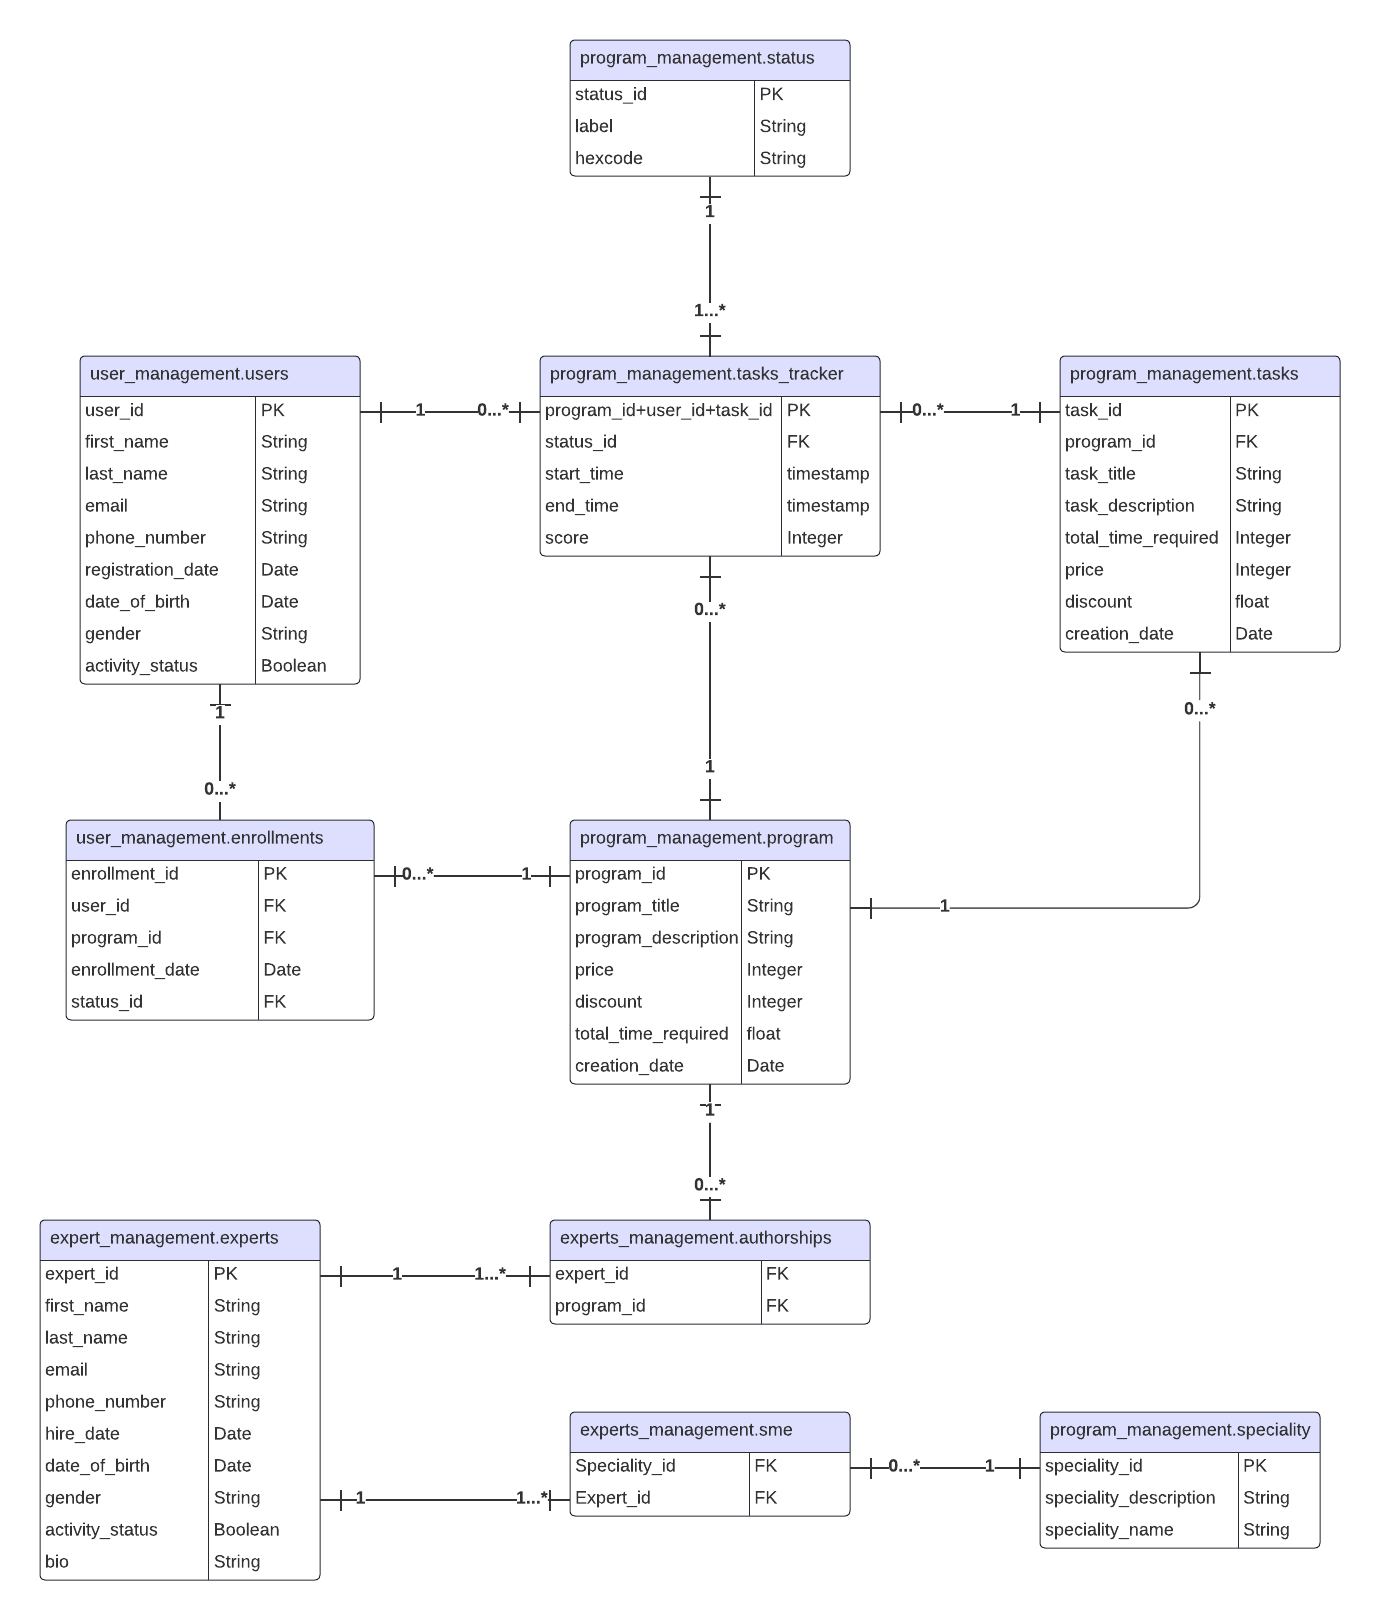
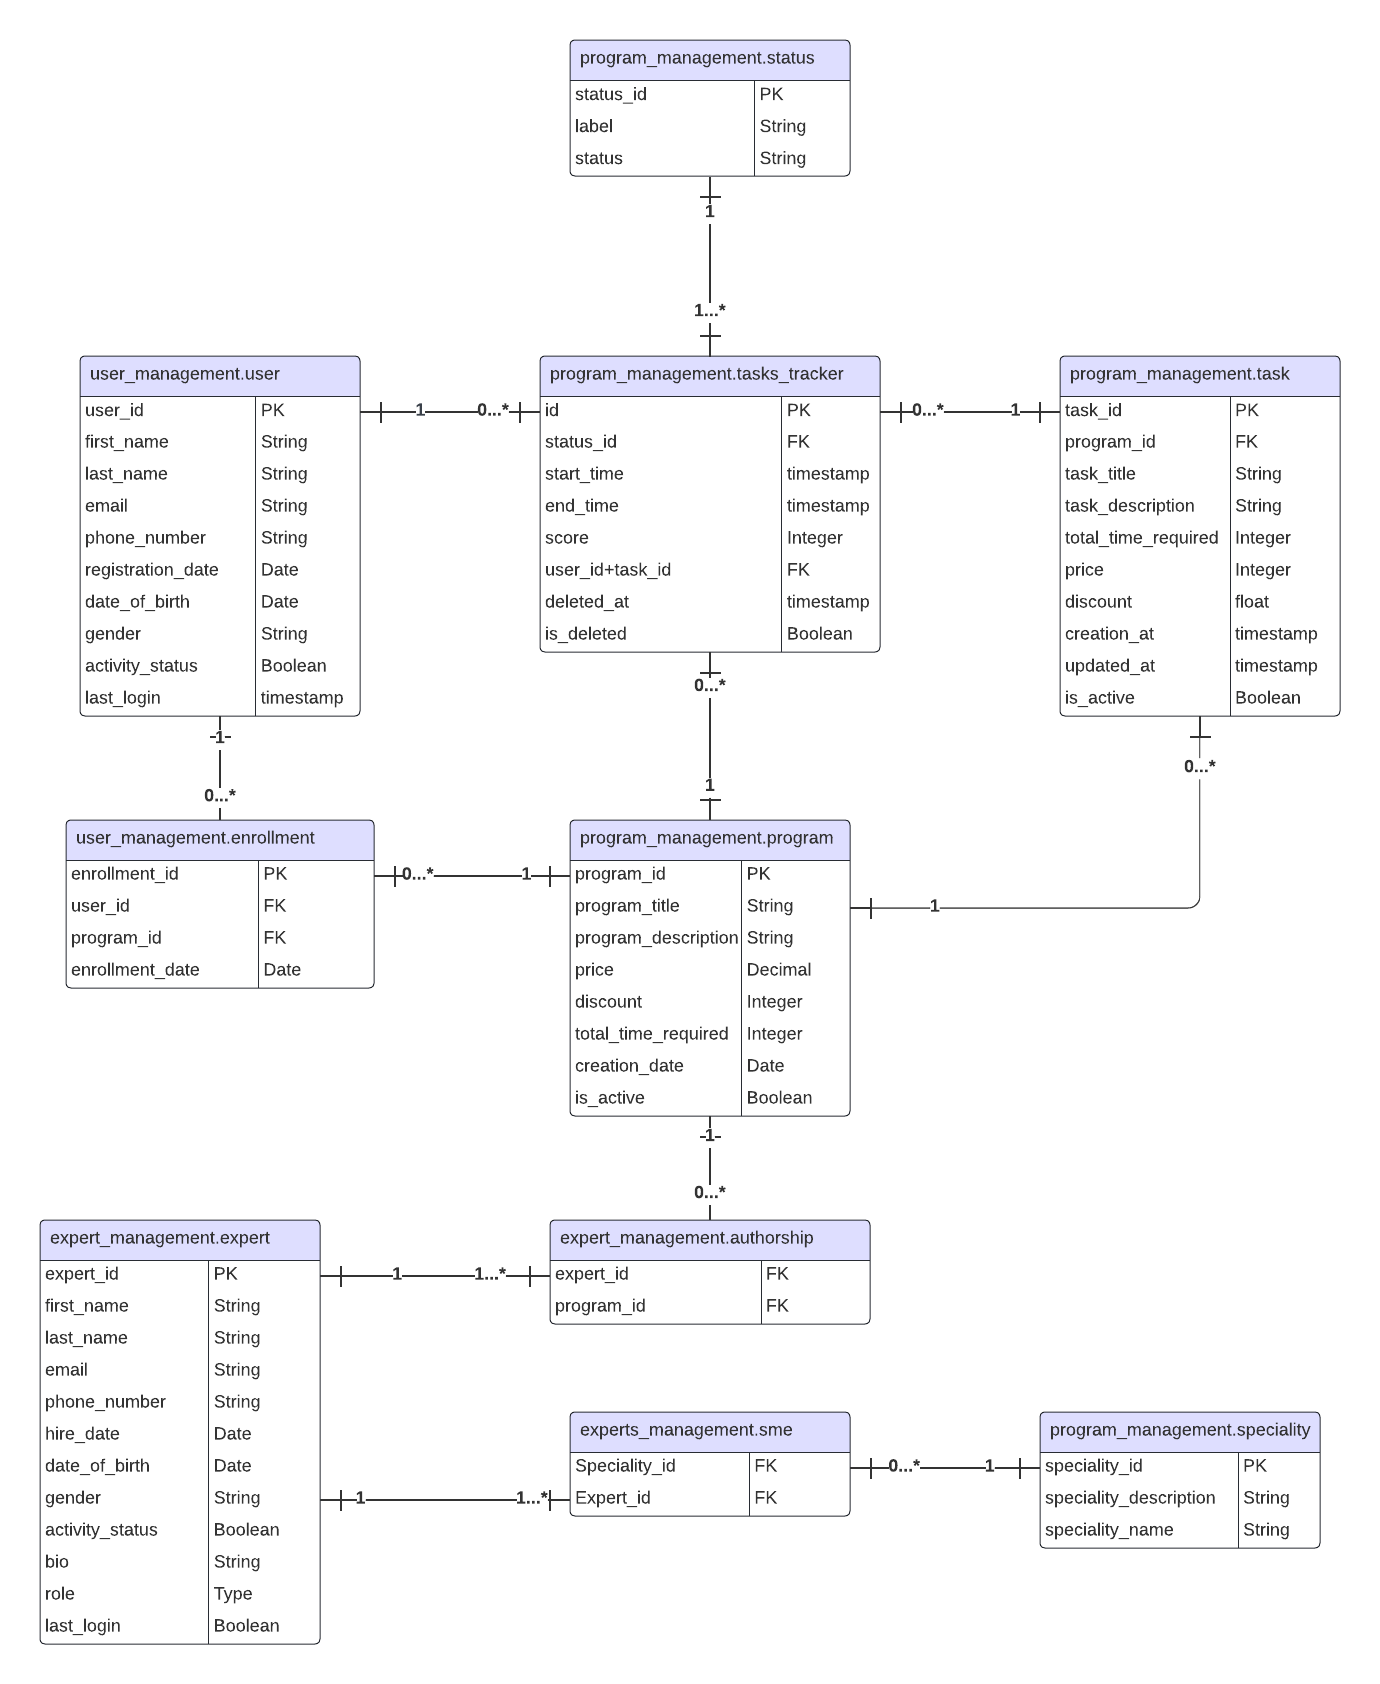
updated: 1. Database design to use correct naming convention, cases and datatypes 2. Formatted initialize.py 3. Fixed code which was having connectivity issues in load_fake_data.py

diff --git a/initialize-dependencies/load_fake_data.py b/initialize-dependencies/load_fake_data.py
@@ -1,22 +1,35 @@
-
-
-
-
 import psycopg2
 from faker import Faker
 import random
 from datetime import datetime, timedelta
+from dotenv import load_dotenv
+import os
+from psycopg2 import OperationalError
 
 # Initialize Faker
 fake = Faker()
+load_dotenv()
 
-# Connect to the PostgreSQL database
-# Establish a connection to your Postgres database
-connection = psycopg2.connect(database = "HFC", 
-                        user = "postgres", 
-                        host= 'localhost',
-                        password = "mysecretpassword",
-                        port = 5432)
+def get_connection():
+    dbname   = os.getenv("DB_NAME")
+    user     = os.getenv("DB_USER")
+    password = os.getenv("DB_PASSWORD")
+    host     = os.getenv("DB_HOST", "localhost")
+    port     = os.getenv("DB_PORT", 5432)
+
+    # debug print
+    # print(f"→ Connecting to Postgres with host={host!r}, port={port!r}, dbname={dbname!r}, user={user!r}")
+
+    try:
+        return psycopg2.connect(
+            dbname=dbname, user=user, password=password,
+            host=host, port=port
+        )
+    except OperationalError as e:
+        print("❌ OperationalError:", e)
+        raise
+
+connection = get_connection()
 cursor = connection.cursor()
 
 # Function to insert users into the user_management.users table
@@ -34,7 +47,7 @@ def insert_users(n):
 
         cursor.execute(
             """
-            INSERT INTO user_management.users
+            INSERT INTO user_management.user
             (first_name, last_name, email, phone_number, registration_date, date_of_birth, gender, activity_status)
             VALUES (%s, %s, %s, %s, %s, %s, %s, %s)
             RETURNING user_id
@@ -75,14 +88,14 @@ def insert_programs(n):
 def insert_statuses():
     statuses = [("In-Progress", "#00FF00"), ("To-Do", "#FFFF00"), ('Done', "#FF0000")]
     status_ids = []
-    for label, hexcode in statuses:
+    for label, status in statuses:
         cursor.execute(
             """
             INSERT INTO program_management.status
-            (label, hexcode)
+            (label, status)
             VALUES (%s, %s)
             RETURNING status_id
-            """, (label, hexcode)
+            """, (label, status)
         )
         status_id = cursor.fetchone()[0]
         status_ids.append(status_id)
@@ -99,7 +112,7 @@ def insert_enrollments(user_ids, program_ids, n):
 
         cursor.execute(
             """
-            INSERT INTO user_management.enrollments
+            INSERT INTO user_management.enrollment
             (user_id, program_id, enrollment_date)
             VALUES (%s, %s, %s)
             """, (user_id, program_id, enrollment_date)
@@ -118,7 +131,7 @@ def insert_tasks(program_ids, n):
 
         cursor.execute(
             """
-            INSERT INTO program_management.tasks
+            INSERT INTO program_management.task
             (program_id, task_title, task_description, total_time_required)
             VALUES (%s, %s, %s, %s)
             RETURNING task_id
@@ -167,7 +180,7 @@ def insert_experts(n):
 
         cursor.execute(
             """
-            INSERT INTO expert_management.experts
+            INSERT INTO expert_management.expert
             (first_name, last_name, bio, email, phone_number, hire_date, date_of_birth, gender, activity_status)
             VALUES (%s, %s, %s, %s, %s, %s, %s, %s, %s)
             RETURNING expert_id

diff --git a/initialize.py b/initialize.py
@@ -10,7 +10,7 @@ def install_requirements(requirements_file='initialize-dependencies/requirements
     except subprocess.CalledProcessError as e:
         print(f"Failed to install dependencies. Error: {e}")
 
-def initialize_datbase():
+def initialize_database():
     try:
         result = subprocess.run(['docker-compose', 'build', '--no-cache'], capture_output=True, text=True)
         print(result.stdout)
@@ -20,7 +20,7 @@ def initialize_datbase():
         result = subprocess.run(['docker-compose', 'down', '-v'], capture_output=True, text=True)
         print(result.stdout)
         print(result.stderr)
-        
+
         # Start the containers in detached mode
         result = subprocess.run(['docker-compose', 'up', '-d'], capture_output=True, text=True)
         print(result.stdout)
@@ -29,8 +29,8 @@ def initialize_datbase():
         print("Database HFC is ready to connect.")
     except subprocess.CalledProcessError as e:
         print(f"Failed to install dependencies. Error: {e}")
-    
-    
+
+
 def load_db():
     time.sleep(5)
     try:
@@ -44,5 +44,5 @@ def load_db():
 
 # Call the function to install dependencies
 install_requirements()
-initialize_datbase()
+initialize_database()
 load_db()
